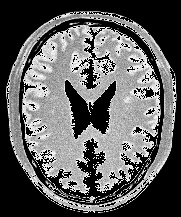
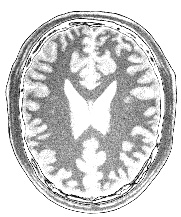
done

diff --git a/Question_02.py b/Question_02.py
@@ -7,49 +7,45 @@ img_orig = cv.imread('C:/Users/Savindu Dilshan/Desktop/Github/Intensity-Transfor
 
 # Define intensity transformation for white matter 
 lut_white = np.zeros(256, dtype=np.uint8)
-for i in range(256):
-    if i < 100:
-        lut_white[i] = int(i * 255 / 100) 
-    else:
-        lut_white[i] = 255  
+lut_white[0:175] = np.linspace(255, 255, 175)
+lut_white[175:200] = np.linspace(255, 0, 25)
+lut_white[200:] = 0
+
+# Apply transformation for gray matter
+lut_gray = np.zeros(256, dtype=np.uint8)
+lut_gray[0:50] = 255
+lut_gray[50:125] = np.linspace(255, 0, 75)
+lut_gray[125:200] = np.linspace(0, 255, 75)
+lut_gray[200:] = 255
 
 white_img = cv.LUT(img_orig, lut_white)
-
-# Define intensity transformation for gray matter 
-lut_gray = np.zeros(256, dtype=np.uint8)
-for i in range(256):
-    if 100 <= i < 200:
-        lut_gray[i] = int((i - 100) * 255 / 100)  
-    else:
-        lut_gray[i] = 0  
-
 gray_img = cv.LUT(img_orig, lut_gray)
 
 # Display results using subplots
 plt.figure(figsize=(20, 4))
 
-plt.subplot(161)
+plt.subplot(151)
 plt.imshow(img_orig, cmap='gray')
 plt.title('Original Image')
 plt.axis('off')
 
-plt.subplot(162)
+plt.subplot(152)
 plt.imshow(white_img, cmap='gray')
 plt.title('White Matter Accentuated')
 plt.axis('off')
 
-plt.subplot(163)
+plt.subplot(153)
 plt.imshow(gray_img, cmap='gray')
 plt.title('Gray Matter Accentuated')
 plt.axis('off')
 
-plt.subplot(164)
+plt.subplot(154)
 plt.plot(lut_white)
 plt.title('White Matter Transformation')
 plt.xlabel('Input Intensity')
 plt.ylabel('Output Intensity')
 
-plt.subplot(165)
+plt.subplot(155)
 plt.plot(lut_gray)
 plt.title('Gray Matter Transformation')
 plt.xlabel('Input Intensity')
